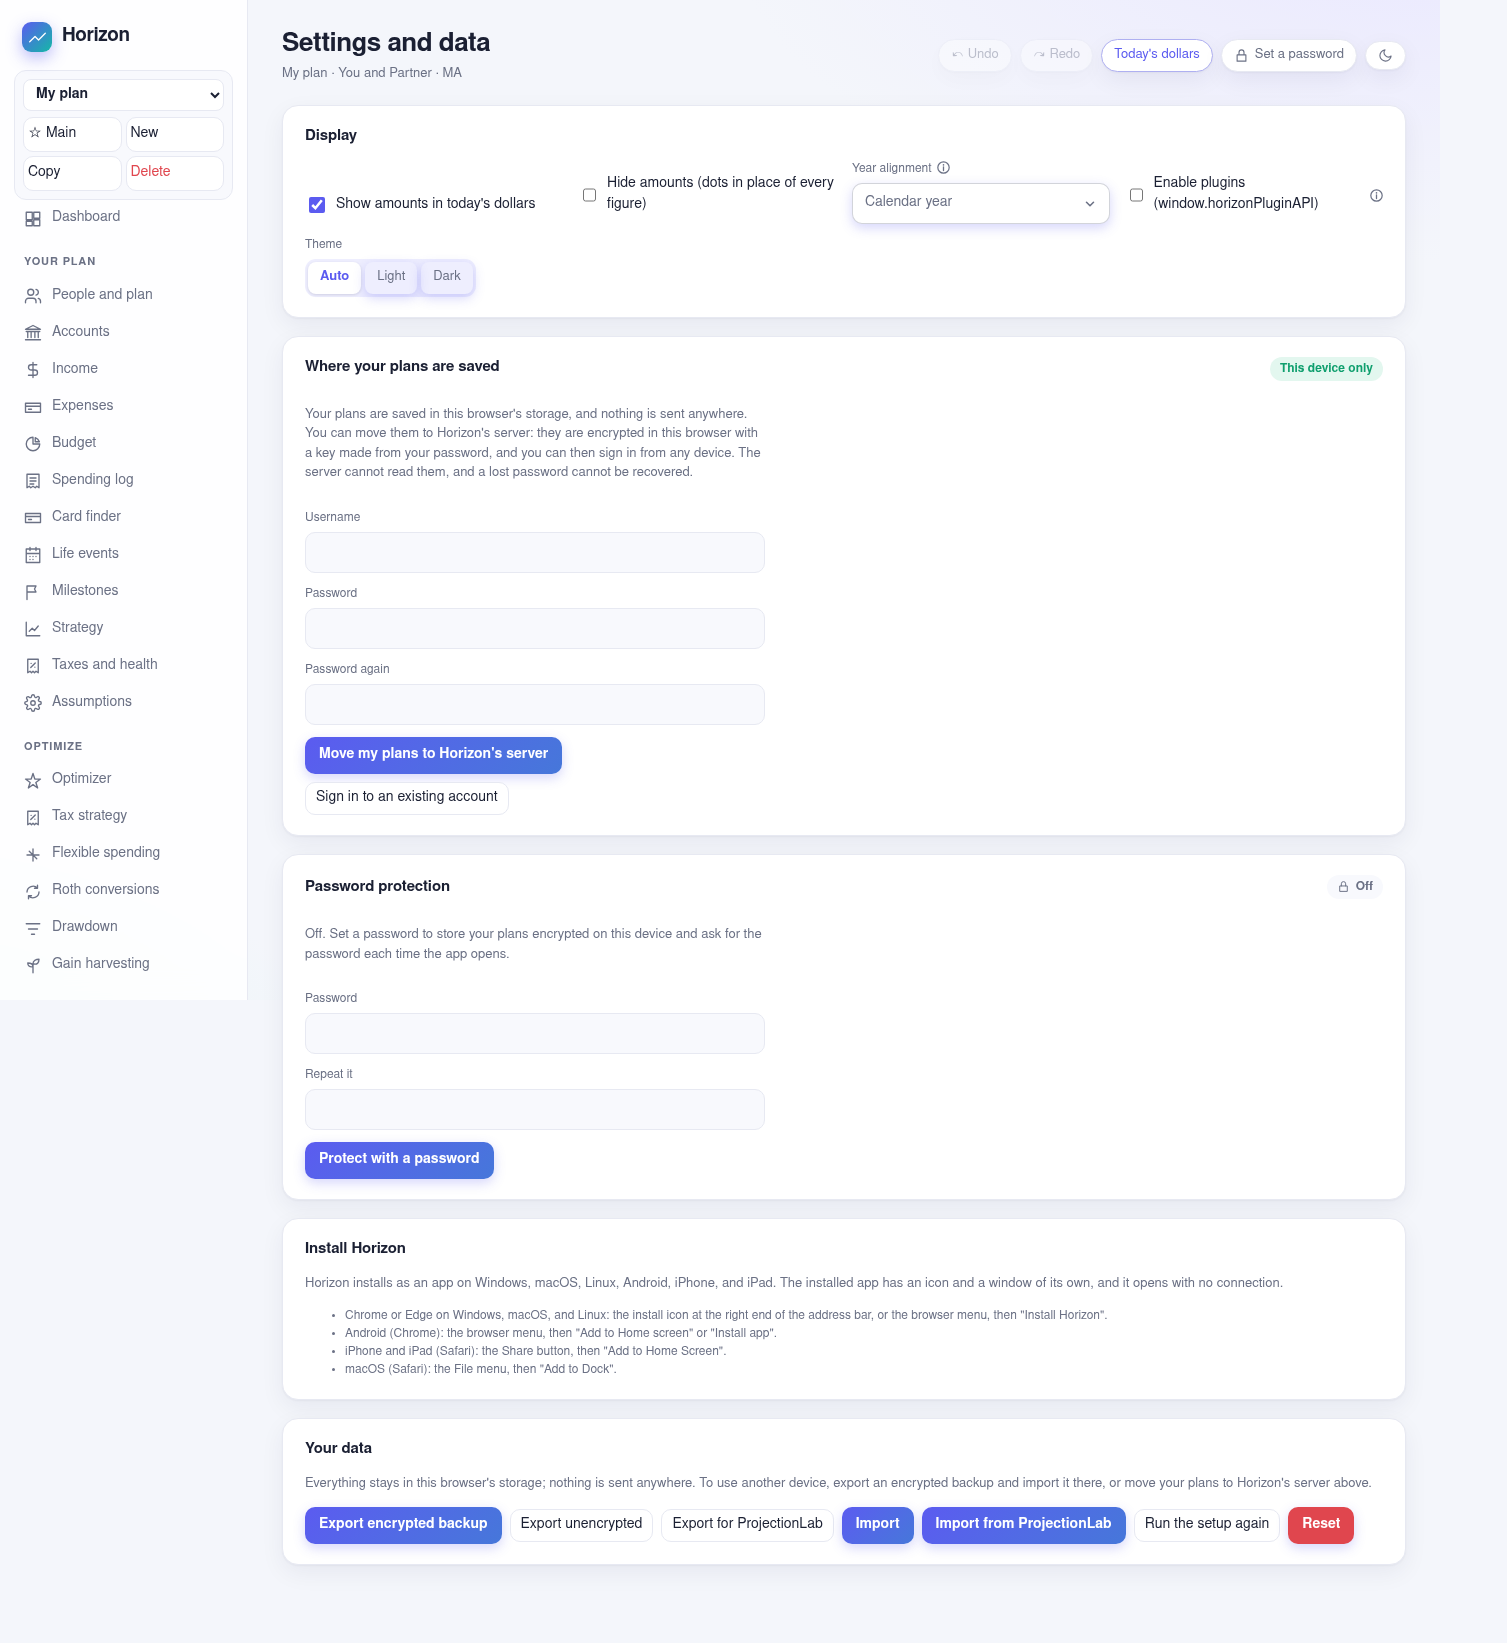
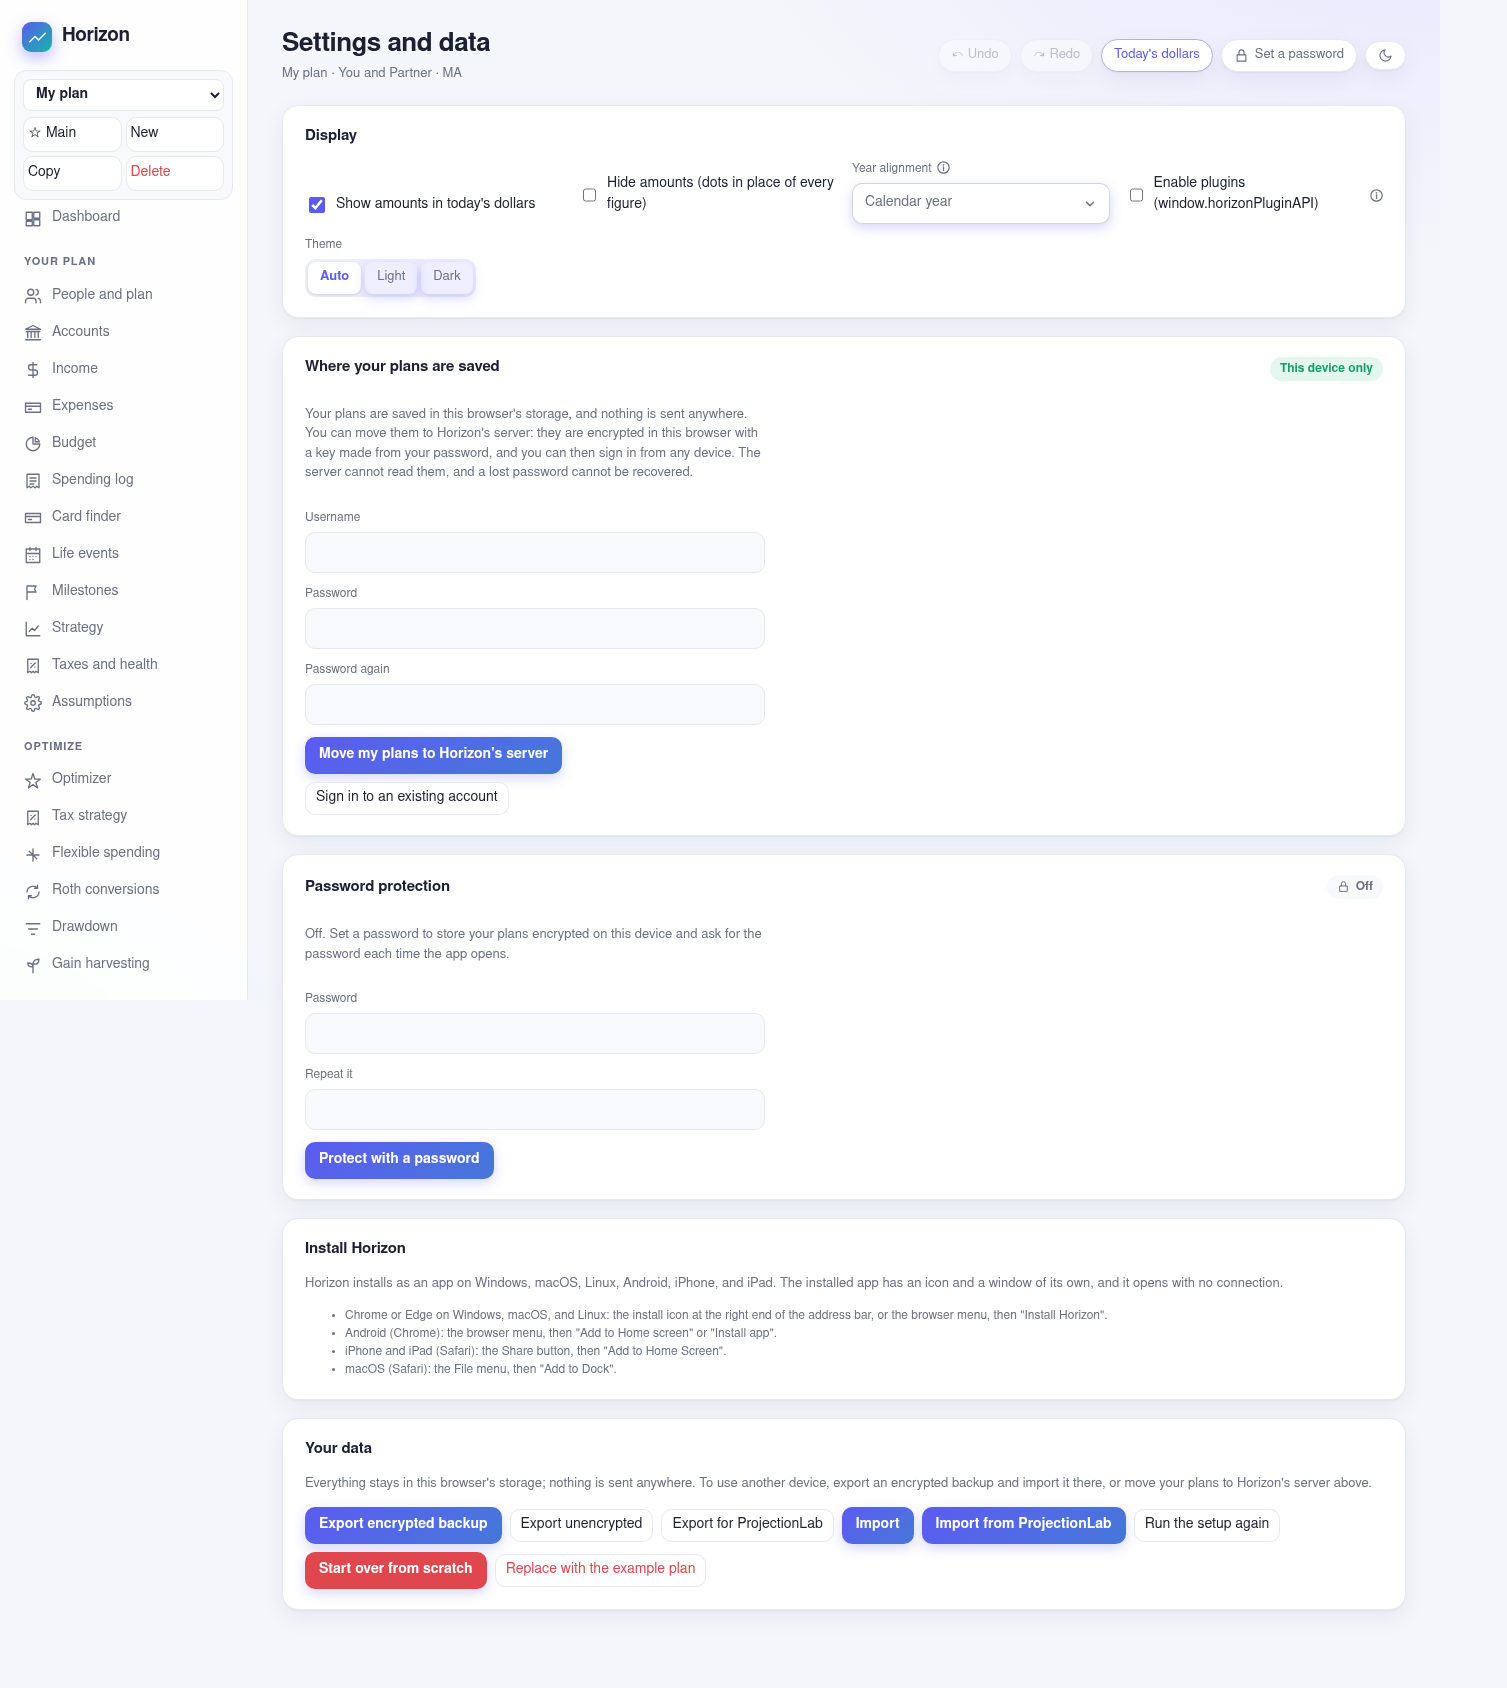
Settings: Start over from scratch (one empty plan, no recorded balances); the old reset renamed Replace with the example plan
Claude-Session: https://claude.ai/code/session_01HeJ1UAxjk6MGEszesTwGbu

diff --git a/10_app/code/src/App.tsx b/10_app/code/src/App.tsx
@@ -19,7 +19,7 @@ import { CashFlowPage, ComparePage, Dashboard, FirePage, MonteCarloPage, NetWort
 import { useActivePlan, useDark, useStore, useUndo } from './store';
 import { Card, Check, Select, setAmountsHidden, setShownCurrency } from './ui';
 import { planCurrency } from './engine/currency';
-import { examplePlan } from './engine/defaults';
+import { emptyPlan, examplePlan } from './engine/defaults';
 import { exportProjectionLab } from './engine/projectionlab';
 import { accountName, changePassword, deleteAccount, keepThisCopy, MODE_KEY, moveToDevice, moveToServer, onSyncStatus, signedIn, signOut, syncStatus, takeServerCopy, type SyncStatus } from './account';
 import { install, installed, useInstallOffer } from './install';
@@ -414,7 +414,8 @@ function SettingsPage() {
           <label className="button">Import<input type="file" accept="application/json" hidden onChange={(e) => e.target.files?.[0] && importAll(e.target.files[0])} /></label>
           <ProjectionLabButton ghost />
           <button className="ghost" onClick={() => { if (confirm('Run the setup again? The plan it builds replaces every plan here. Export a backup first to keep them.')) setSettings({ setupDone: false }); }}>Run the setup again</button>
-          <button className="danger" onClick={() => { if (confirm('Replace every plan and snapshot with the example plan?')) useStore.getState().importAll({ plans: [examplePlan()], snapshots: [], settings }); }}>Reset</button>
+          <button className="danger" onClick={() => { if (confirm('Delete every plan and recorded balance and start from one empty plan?')) useStore.getState().importAll({ plans: [emptyPlan()], snapshots: [], settings: { ...settings, mainPlanId: undefined } }); }}>Start over from scratch</button>
+          <button className="ghost danger" onClick={() => { if (confirm('Replace every plan and snapshot with the example plan?')) useStore.getState().importAll({ plans: [examplePlan()], snapshots: [], settings }); }}>Replace with the example plan</button>
         </div>
       </Card>
     </>
